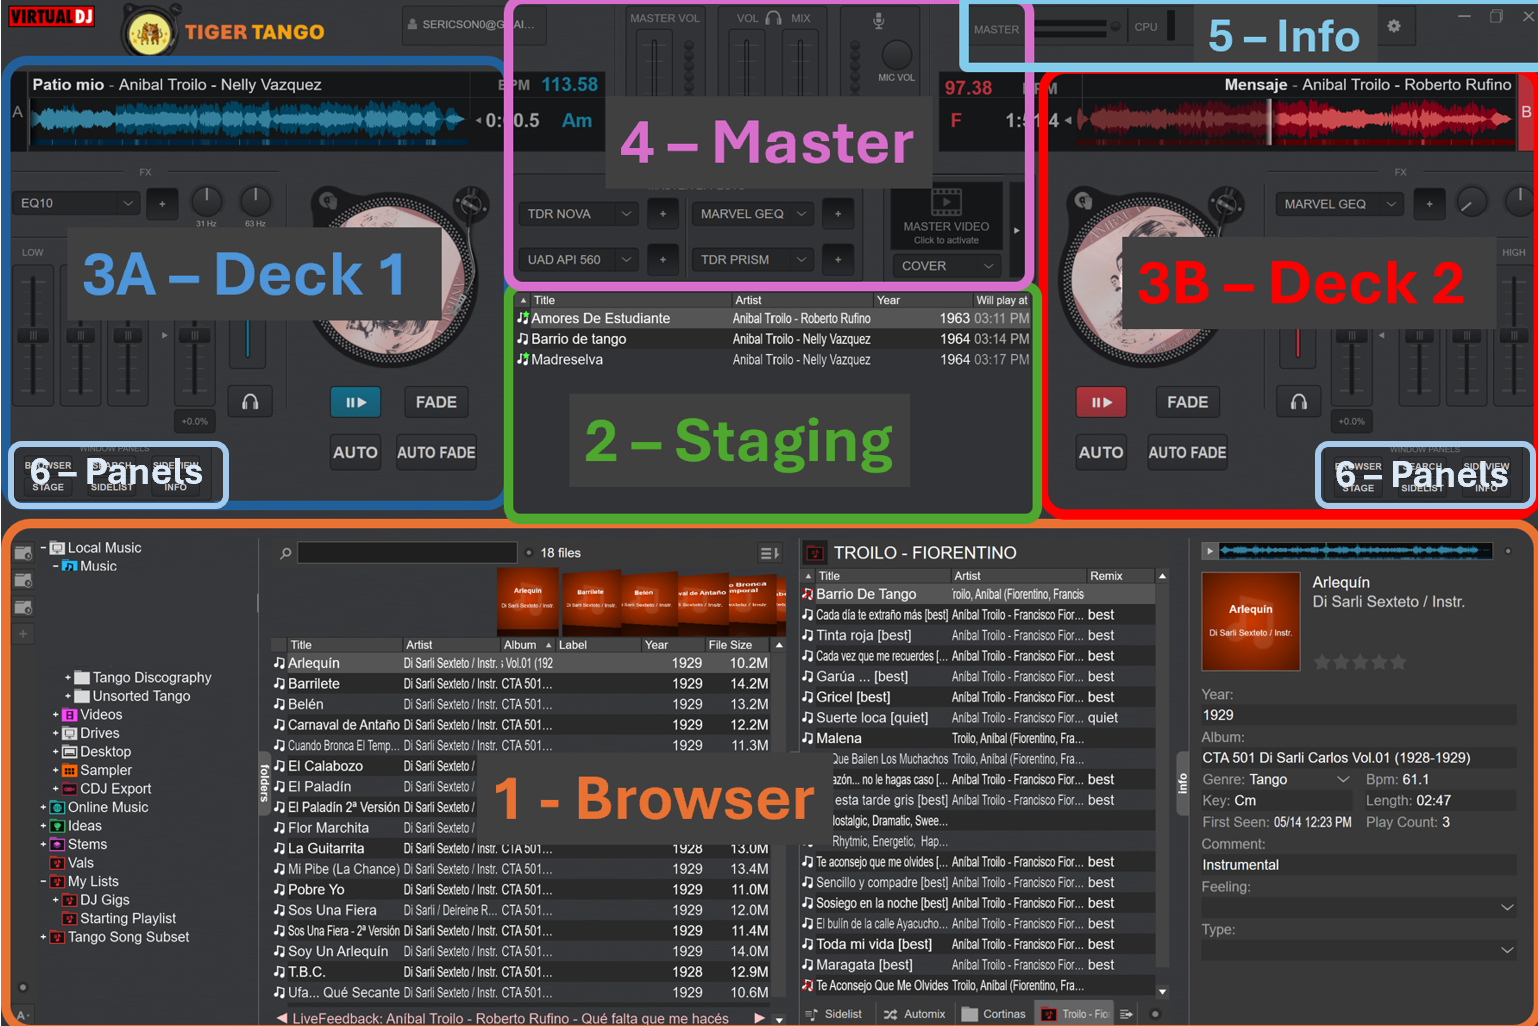
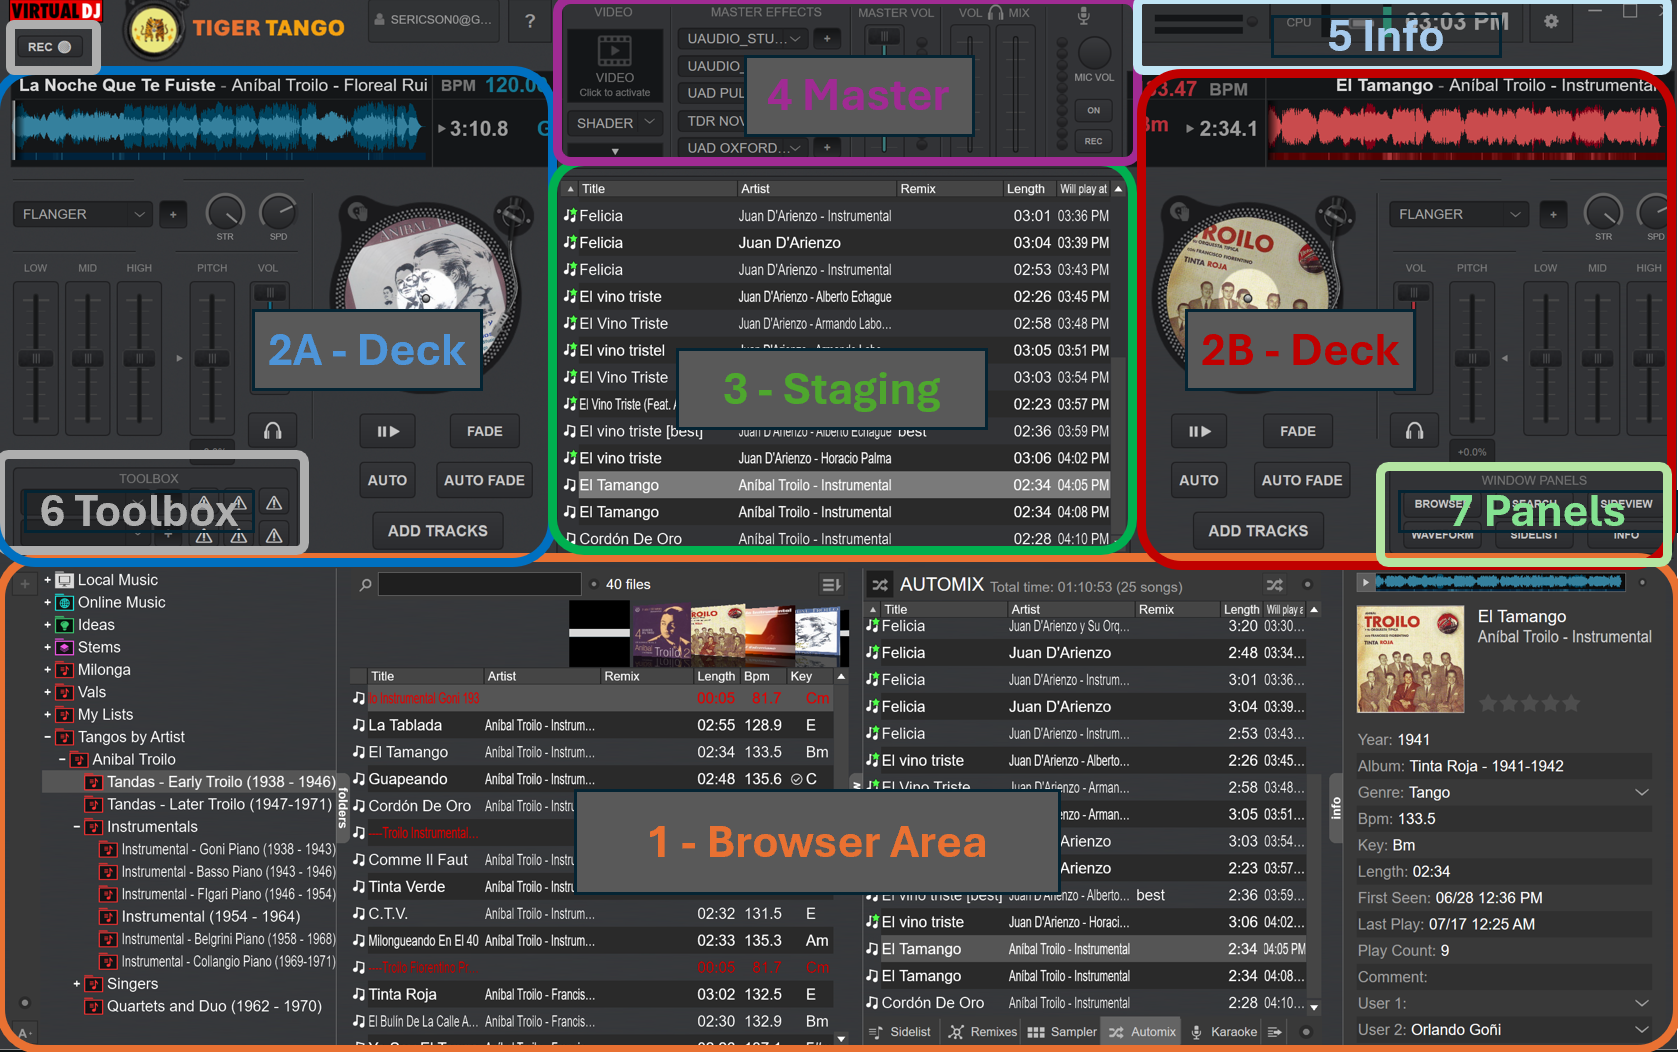
Update documentation

diff --git a/README.md b/README.md
@@ -105,8 +105,11 @@ Here I show how to install *TDR NOVA*, a powerful and free parametric EQ by Toky
 3) Accept the license agreement and click through next on each popup.
 4) Close and restart Virtual DJ
 
-* Tokyo Dawn has some additional nice free and paid plugins. * https://analogobsession.com/ also has a number of free analog emulations that are worth checking out
+* Tokyo Dawn has some additional nice free and paid plugins.
+* https://analogobsession.com/ hvas a number of free analog emulations that are worth checking out
 * Voxengo has a free 16 band graphic equalizer https://www.voxengo.com/product/marvelgeq/
+* Toneboosters has a free audio spectrogram for those interested in visualizing the music https://www.toneboosters.com/tb_spectrogram_v1.html
+
 * You can also connect any VST3 plugin into Virtual DJ.
 
 ## Using TigerTango
@@ -132,16 +135,17 @@ For Virtual DJ to work correctly, you need to configure your audio to play how y
 
 ![alt text](<docs/TangoTiger Breakdown.png>)
 
-(Note that some of the layout look has changed in the development version, but the functionality is the same.)
+(Note that this documentation gives the github layout. The version on the Virtual DJ website has some differences.)
 
-TangoTiger is separated into 6 main components.
+TangoTiger is separated into 7 main components.
 1. **Browser** Set up playlists and can search for songs in your library.
 2. **Staging Area** Prepare your tandas.
    Note: The staging area is an always viewable automix panel, which allows you to use the side view in the File explorer panel to pull up playlists. This is one of the additions of TigerTango to help with tango DJing.
-3. **Decks 1 and 2** Where songs will play from. TigerTango is set up to switch between decks when in auto mode.
-4. **Master** Includes master effects (plugins) and your master fader. Also includes information on headphone volume and mic volume (when one is plugged in).
+3. **Decks 1 and 2** Where songs will play from. TigerTango is set up to play in dualdeck mode.
+4. **Master** Includes master effects (plugins) and your master fader. Also includes information on headphone volume and mic volume when these are plugged in.
 5. **Info** Access settings and information such as time, master VU metering, and battery life.
-6. **Panels** Opens movable windows of parts of the browser window.
+6. **Toolbox** Includes additional plugin spaces and warninig indicators that denote settings that could cause issues with TigerTango.
+7. **Panels** Opens movable resiable windows.
 
 #### Browser
 You can find detailed documentation on the browser section in the virtual DJ user manual [here](https://virtualdj.com/manuals/virtualdj/interface/browser.html) (https://virtualdj.com/manuals/virtualdj/interface/browser.html)
@@ -153,12 +157,18 @@ Main notes are:
 * You can add folder shortcuts and build playlists in the sideview planel (middle right)
 * You can access and update song information, including editing and adding tags and metadata, in the File Info panel on the right.
 
+> [!WARNING]
+> When making playlist files in virtual DJ, you will want to right click and select 'Keep Order'. This will ensure that the playlist order will not be accitentally changed.
+
 ### Staging Area
 The staging area is an always-available automix panel. Here you can build your tandas and cortinas.
 
 You can read more about how automix works [here](https://virtualdj.com/manuals/virtualdj/interface/browser/sideview/automix.html)
 
-You can also read about importing playlists into Virtual DJ, such as from ITunes or traktor [here](https://virtualdj.com/manuals/virtualdj/interface/database/playlists/index.html)
+You can also read about importing playlists into Virtual DJ, such as from ITunes or traktor [here](https://virtualdj.com/manuals/virtualdj/interface/database/playlists/index.html).
+
+> [!NOTE]
+> When Automix is on, a blue line will show on the currently playing song (sometimes takes 1 song for it to show up). This gives an indicator of where you are in your playlist.
 
 ### Decks
 
@@ -166,20 +176,45 @@ You can also read about importing playlists into Virtual DJ, such as from ITunes
 
 TigerTango uses two decks so you can prepare the next **track** while one is playing. Each deck has the same sections, with the following properties:
 
-1. **Track Info** Gives information such as track name, key, and time remaining in song. You can skip ahead or back by moving the line on the waveform.
-2. **Effects** You can add effects such as EQing to a deck here.
-   1. The dropdown allows you to select the effect.
+1. **Track Info** Gives information including:
+   * track name and artist name
+   * Beats per minute (not always accurate on tango songs)
+   * Key
+   * Time elapsed / timeremaining in song.
+   * Song waveform.
+
+   You can skip ahead or back by moving the line on the waveform.
+2. **Effects** You can add effects plugins such as EQing to a deck here. Plugin sections work as following:
+   1. Click the chevron to open a dropdown which allows you to select the effect.
    2. Clicking on the plus button opens up the effect graphical interface.
-   3. Click the effect button not on the dropdown chevron to toggle the effect. The effect button will light up when active.
+   3. Click the effect button not on the dropdown chevron (where the effects name is located) to toggle the effect. The effect button will light up when active.
 3. **Dropzone** Add a track to the deck by dragging and dropping it here. The turntable will spin when a deck is playing. TangoTiger should automatically change settings to turn off scratching, but this is something you may want to test before playing to the public :-)
-4. **EQ and Pitch** You can adjust the Low, Mid, and High of a track along with adjusting the playback pitch by moving the sliders here.
-5. Adjust the deck volume here. If a deck is playing but no sound is coming out, it may be because the deck volumne is down.
-6. The prelisten button allows you to listen to a song ahead of time in headphones. It implements the following logic:
-   1. when turned on it first checks to make sure the deck is not playing to the main speakers. Then it turns the volume of the deck off, sets to play through headphones, and starts the track.
-   2. When durned on it resets volume to 100% and resets track to starting.
+4. **EQ and Pitch** You can adjust the Low, Mid, and High of a track along with adjusting the playback pitch by moving the sliders here. THe sliders provides a bell curve eq. TigerTango defaults to the following frequency bands:
+   *  Low at 150 Hz - for changing bass frequencies
+   *  Mid at 1 kHz - for changing song "presence"
+   *  High at 8.5 kHz - for reducing song hiss.
+
+Move the slider up to boost a frequency, and move the slider down to cut the frequency
+> [!NOTE]
+> The three band equalizers are for quick adjustments. Installing a parametric eq plugin will give greater control over removing hiss and adjusting sound.
+
+Some tango music has been transferred at an incorrect pitch. If you happen to notice that a track is incorrect durnig prelistening, you can adjust the pitch using the pitch slider. Sliding up with REDUCE the pitch and sliding down witll INCREASE the pitch. The pitch slider is given as a failsafe for bad transfers. The much better approach is to DJ using high quality transfers which have the correct pitch to start with
+
+5. **Volume Slider**. Slider can be used to adjust or balance deck volume.
+
+> [!NOTE]
+> TigerTango adjusts the deck volume when fading or prelistening. After prefading or pre-listing the deck volume is reset to 100%. It is recommended to primarily adjust sound volume through the master fader and only use deck faders to ocassionally balance volume between songs.
 
 > [!IMPORTANT]
-> If you want the deck volumne other than full, then remenmber to change it after toggling off prelisten.
+> If a deck is playing but no sound is coming out, it may be because the deck volumne is down.
+
+
+6. **Pre-listen**. The pre-listen button allows you to listen to a song ahead of time in headphones. It implements the following logic:
+   * When turned on it first checks to make sure the deck is not playing to the main speakers. Then it turns the volume of the deck off, sets to play through headphones, and starts the track.
+   * When durned on it resets volume to 100% and resets track to starting.
+
+> [!IMPORTANT]
+> If you want the deck volume other than full, or start the song at a point other than the beginning, then remenmber to change to the desired setting after toggling off pre-listen.
 7. **Controls** TigerTango has implemented four playback controls:
    1. **Play/Pause** Starts or stops the current track.
    2. **Fade** Fades out current track. At end of fade it resets the deck volume to 100%.
@@ -191,33 +226,43 @@ TigerTango uses two decks so you can prepare the next **track** while one is pla
 
 > [!NOTE] The Development verion has also implemented an 'ADD TRACKS' button. If you select a set of tracks and click this button, it will add them to the bottom of the automix list.
 
+TigerTango has also implemented an **ADD TRACKS** button. If you select songs and then click the ADD TRACKS button, it will add these songs to the bottom of the automix playlist. A "TRACKS ADDED" text will briefly be displayed when the tracks are added.
+
 ### Master
 
 The Master section Has four components:
-1. **Master Effects** This is where you can add plugins such as compressors, limiters, saturation, or EQ. TigerTango has four master effects slots.
-   1. Click the dropdown to select the effect
-   2. Press the plus to toggle the effect's graphic interface
-   3. Click the effects button to toggle on or off the effect (when on the effect button will change color)
+1. **Master Effects** There are 5 effects slots where you can add plugins such as compressors, limiters, saturation, or EQ. (The toolbox has 2 additional plugin spots). Virtual DJ can integrate with any VST-based plugin. You can add VST plugins by placing them in the Virtual DJ vstFxFolder path (search vstFxFolder in the Virtual DJ options).
+
+To use a plugin, follow these steps:
+   * Click the dropdown chevron to select the effect
+   * Press the plus to toggle the effect's graphic interface
+   * Click the effects button to toggle on or off the effect (when on the effect button will change color)
 2. **Master Video** Here you can add video effects such as projecting the song album art or title to an external monitor
 3. **Master Volume** This fader changes the sound going to the speakers.
 4. **Headphone Volume** When audio is set up for both speakers and headphones, then you can change the headphone volume here. The Mix slider determines what percent of the main mix comes through headphones. If you want to just head the headphone song, then turn mix volume to zero.
-5. **Mic Volumne** If you have a mic connected to your interface, then you can selet the mic volume here.
+5. **Mic Volume** If you have a mic connected to your interface, then you can selet the mic volume here.
 
 ### Info Section
 The Info section presents the following:
 
-1. A VU meter for the master fader along with a clipping indicator. **!!!IF THE CLIPPING INDICATOR IS LIGHTING UP, TURN DOWN THE MASTER FADER!!!**
+1. A VU meter for the master fader along with a clipping indicator.
+
+> [!IMPORTANT]
+> **IF THE CLIPPING INDICATOR IS LIGHTING UP, TURN DOWN THE MASTER FADER!!!**
 2. A CPU usage indicator. **If the CPU is high, then make sure to turn off other programs or reduce the number of plugins used**
 3. Battery level if the computer is not plugged into a power source. **If you see a battery symbol, this means your computer is not plugged in**
 4. Current time
-5. Settings menu (gear icon)
+5. Settings menu (gear icon). Click to open the Virtual DJ settings option.
+
+### Toolbox
+The Toolbox section has two additional plugin areas. In addition, the toolbox includes several warning icons. Some Virtual DJ settings can cause TigerTango to not work as expected. If a warning icon lights up this means that a setting is not as recommended. Click on a lighted warning light to change the setting to what is recommended for TigerTango.
 
 ### Panels
-The following panels are options
+Click on a panel to open an adjustable panel window. The following panels are options
 * **BROWSER** Opens a movable and expandable browser panel. Most useful for prework if you want to use multiple monitors.
 * **SEARCH** Opens an expandable search panel. Best suited for prework
 * **SIDEVIEW** Opens an expandable sideview panel
-* **STAGE** Opens an expandable automix panel for staging songs. Can be helpful if you have a large playlist. Currently you cannot add songs from the movable staging panel but you move from the staging panel to a track.
+* **WAVEFORM** Opens an expandable window to show the song waveform.
 * **SIDELIST** Opens an expandable sidelist panel. Can be useful if you have preset possible tandas that you would like to pull from
 * **INFO** Opens and expandable info panel. Useful for metadata work.
 > [!IMPORANT]
